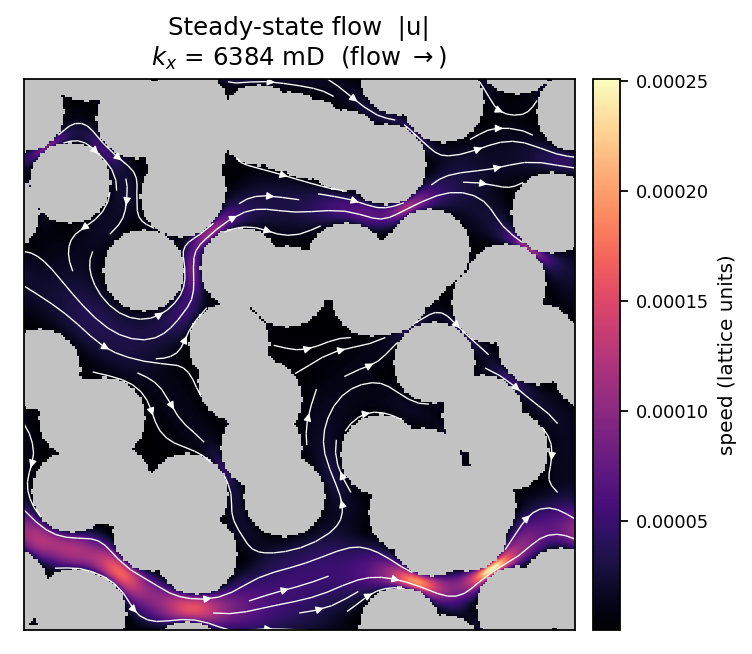
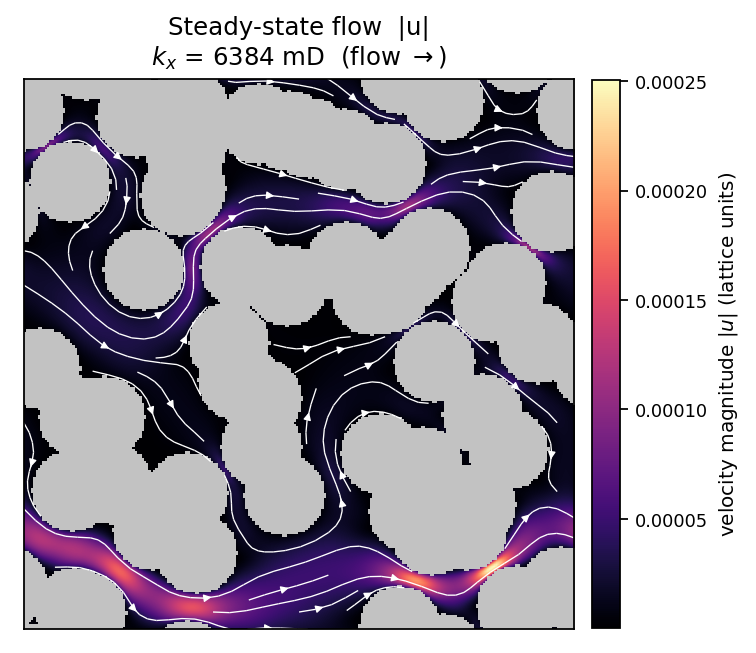
Relabel colorbars: 'speed' -> 'velocity magnitude |u|' in 2D and 3D figures

diff --git a/examples/visualize_3d.py b/examples/visualize_3d.py
@@ -91,7 +91,8 @@ def main():
     p.add_mesh(grains, color="#cfcfcf", opacity=0.18, smooth_shading=True)
     if lines.n_points > 0:
         p.add_mesh(lines.tube(radius=0.35), scalars="speed", cmap="magma",
-                   scalar_bar_args=dict(title="speed (LU)", color="black"))
+                   scalar_bar_args=dict(title="velocity magnitude |u| (LU)",
+                                        color="black"))
     p.set_background("white")
     p.add_text(f"3D flow streamlines   k_x = {k_mD:.0f} mD",
                font_size=12, color="black")

diff --git a/examples/visualize.py b/examples/visualize.py
@@ -72,7 +72,7 @@ def main():
     ax.set_xticks([]); ax.set_yticks([])
     ax.set_xlim(0, nx - 1); ax.set_ylim(0, ny - 1)
     cb = fig.colorbar(im, ax=ax, fraction=0.046, pad=0.03)
-    cb.set_label("speed (lattice units)", fontsize=9)
+    cb.set_label("velocity magnitude $|u|$ (lattice units)", fontsize=9)
     cb.ax.tick_params(labelsize=8)
     fig.tight_layout()
     fig.savefig(os.path.join(OUT_DIR, "velocity.png"), dpi=160, bbox_inches="tight")